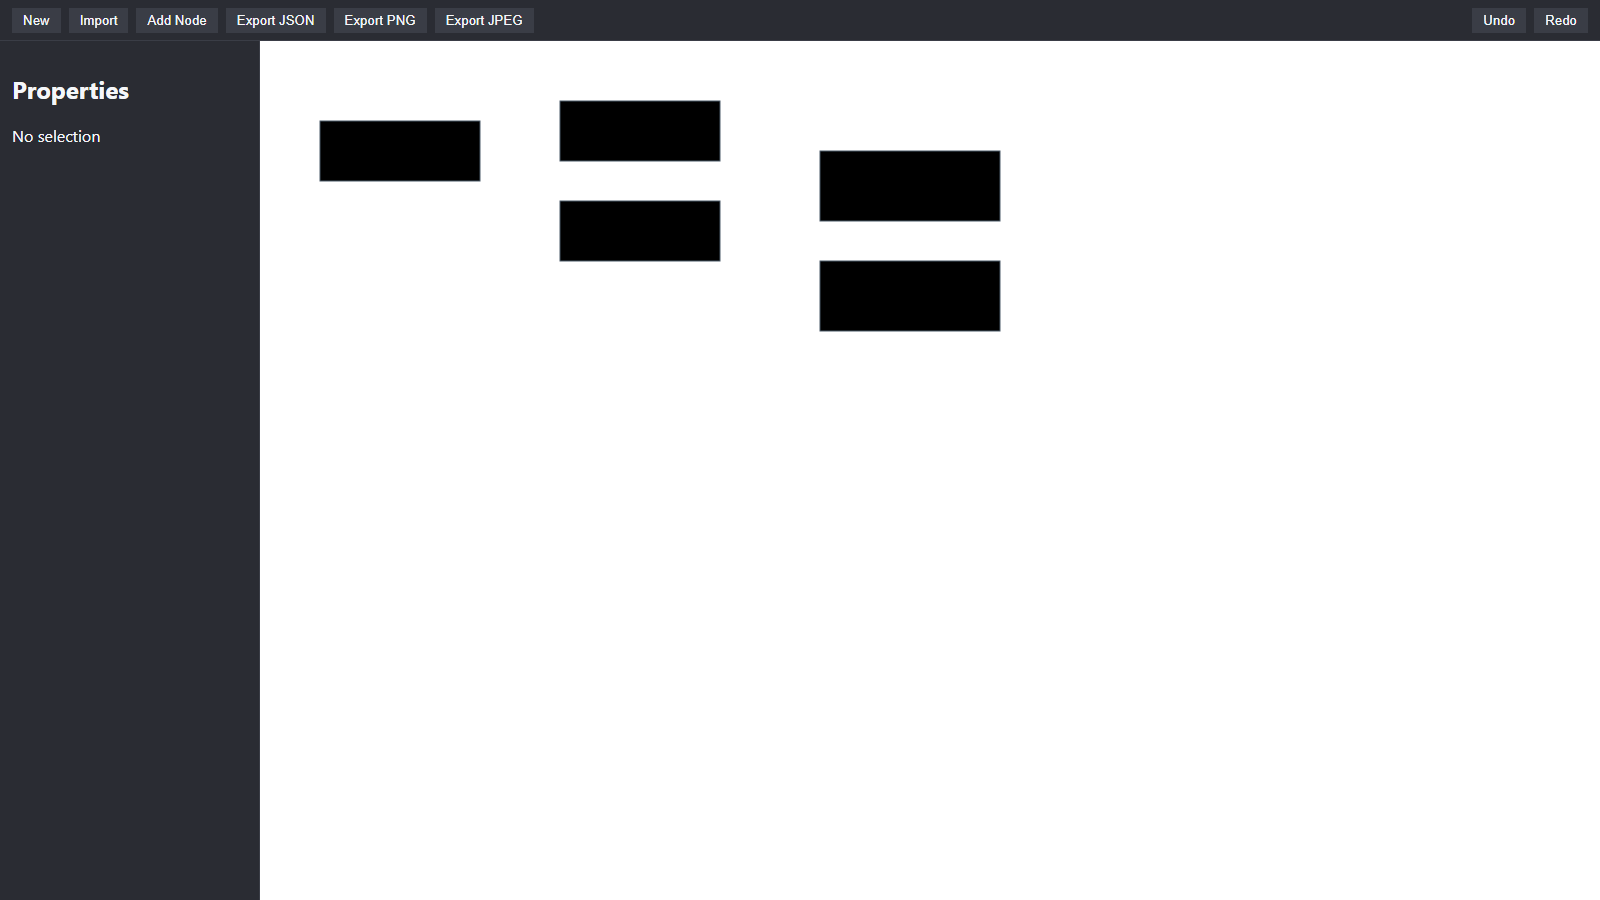
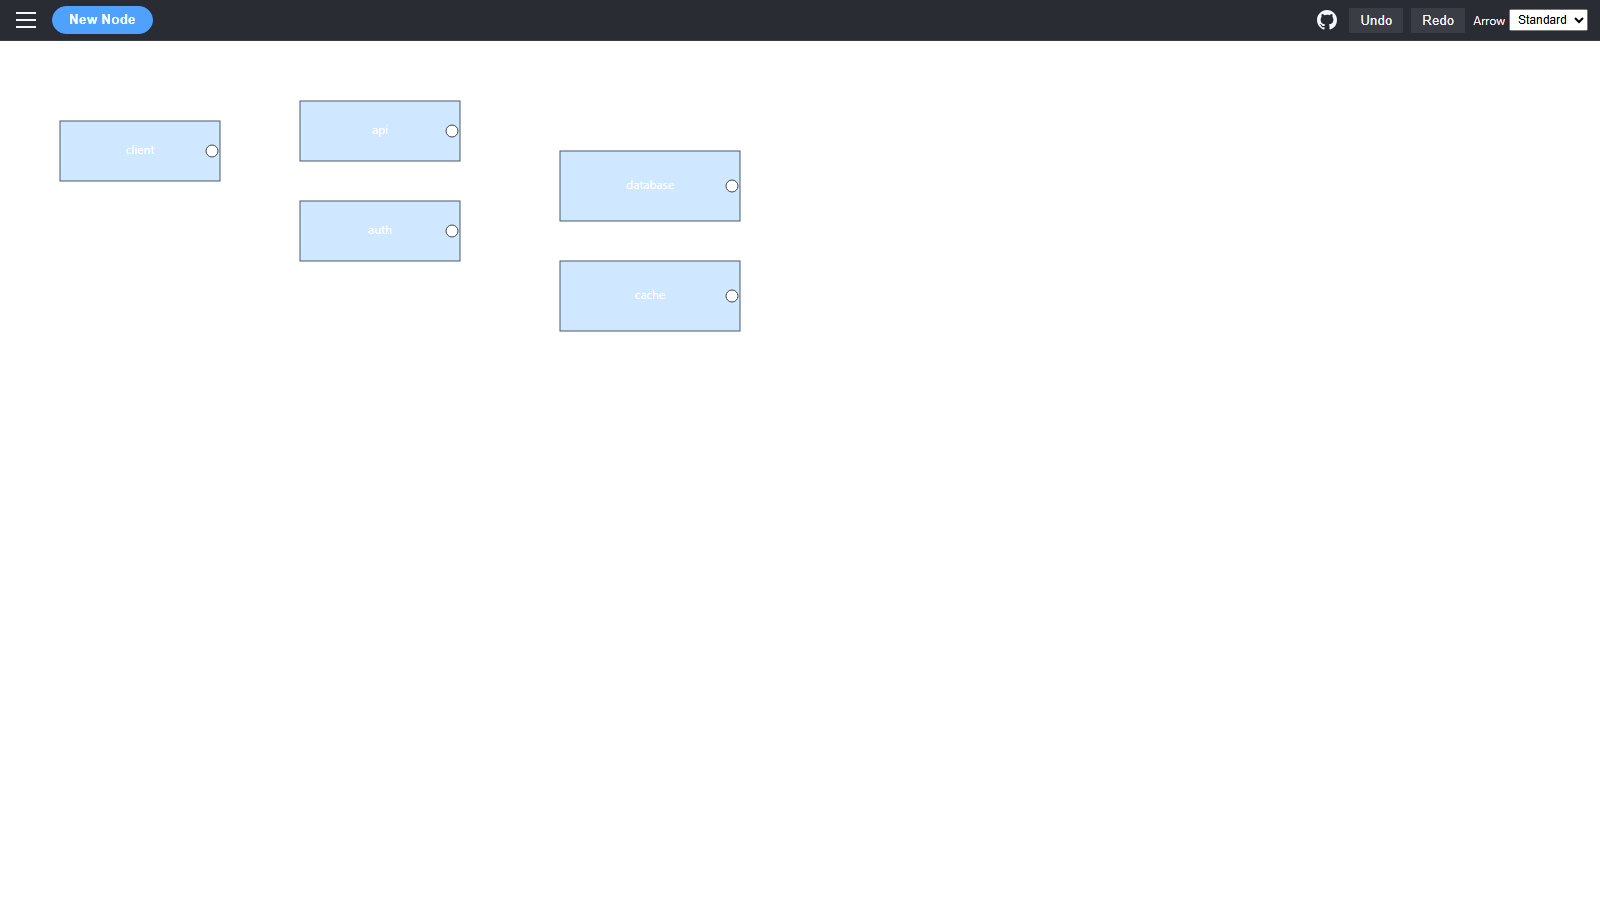
feat(docs): add connected examples, multi-shape + property pane screenshots and update node styling

diff --git a/app/tests/e2e/readme-screenshots.spec.ts b/app/tests/e2e/readme-screenshots.spec.ts
@@ -1,0 +1,90 @@
+import { test, expect, Page } from '@playwright/test';
+
+/**
+ * Generates screenshots for README documentation:
+ * 1. readme-overview.png - variety of node shapes laid out
+ * 2. readme-property-pane.png - node selected with property pane open
+ *
+ * Run via: npx playwright test tests/e2e/readme-screenshots.spec.ts
+ */
+
+async function gotoBase(page: Page, query: string = '') {
+  await page.addInitScript(() => { try { localStorage.setItem('diagramimp.skipSplash','1'); } catch {} });
+  await page.setViewportSize({ width: 1600, height: 900 });
+  // Accept query beginning with '/' or without.
+  const url = query.startsWith('/') ? query : '/' + query;
+  await page.goto(url);
+}
+
+async function selectFirstNode(page: Page) {
+  await page.waitForFunction(() => document.querySelector('[data-layer="nodes"] g[data-node-id]'));
+  const node = page.locator('[data-layer="nodes"] g[data-node-id]').first();
+  // Click the rect (or shape) directly
+  await node.locator(':scope > .node-rect, :scope rect, :scope ellipse, :scope polygon').first().click();
+  await expect(node).toHaveAttribute('data-node-selected', 'true');
+}
+
+// Helper to change shape of currently selected node
+async function setShape(page: Page, shape: string) {
+  const shapeSelect = page.getByTestId('prop-shape');
+  await shapeSelect.selectOption(shape);
+  await page.waitForTimeout(40); // allow DOM update
+}
+
+// Capture screenshot utility with small delay for transitions
+async function capture(page: Page, path: string) {
+  await page.waitForTimeout(120); // settle animations (e.g., property pane slide-in)
+  await page.screenshot({ path: `screenshots/${path}`, fullPage: false });
+  console.log('[screenshot]', path);
+}
+
+// We'll start from an example with at least one node
+const EXAMPLE = '/?example=basic-flow';
+
+// Layout helper: move selected node by applying arrow key moves or drag
+async function nudge(page: Page, dx: number, dy: number) {
+  const steps = Math.max(Math.abs(dx), Math.abs(dy));
+  const xStep = dx === 0 ? 0 : dx / steps;
+  const yStep = dy === 0 ? 0 : dy / steps;
+  for (let i = 0; i < steps; i++) {
+    await page.keyboard.press(xStep > 0 ? 'ArrowRight' : xStep < 0 ? 'ArrowLeft' : '');
+    await page.keyboard.press(yStep > 0 ? 'ArrowDown' : yStep < 0 ? 'ArrowUp' : '');
+  }
+}
+
+// Desired shape assignments for first several nodes present in example
+const SHAPE_SEQUENCE = ['square','triangle','star','ellipse','rect','hexagon','octagon','cylinder'];
+
+async function ensureVariety(page: Page) {
+  const nodeSel = '[data-layer="nodes"] g[data-node-id]';
+  await page.waitForFunction(sel => document.querySelectorAll(sel).length > 0, nodeSel);
+  const count = await page.locator(nodeSel).count();
+  const applyCount = Math.min(count, SHAPE_SEQUENCE.length);
+  for (let i = 0; i < applyCount; i++) {
+    const node = page.locator(nodeSel).nth(i);
+    await node.locator(':scope > .node-rect, :scope rect, :scope ellipse, :scope polygon').first().click();
+    await setShape(page, SHAPE_SEQUENCE[i]);
+    // Slight nudge to avoid total overlap of labels if layout tight
+    await nudge(page, 2 * i, i); // small offset
+  }
+}
+
+test.describe('README screenshots', () => {
+  test('generate overview and property pane screenshots', async ({ page }) => {
+    await gotoBase(page, EXAMPLE);
+
+    // Overview: variety of shapes visible, no property pane (deselect if needed)
+    await ensureVariety(page);
+    // Deselect to hide property pane
+    const svg = page.locator('svg.diagram');
+    await svg.click({ position: { x: 10, y: 10 } });
+    await capture(page, 'readme-overview.png');
+
+    // Property pane: reselect a node and show pane with selection highlight
+    await selectFirstNode(page);
+    // Ensure property pane open by focusing on a known input
+    const textInput = page.getByTestId('property-pane').locator('input[type="text"]').first();
+    await expect(textInput).toBeVisible();
+    await capture(page, 'readme-property-pane.png');
+  });
+});

diff --git a/app/tests/e2e/node-colors.spec.ts b/app/tests/e2e/node-colors.spec.ts
@@ -1,0 +1,39 @@
+import { test, expect } from '@playwright/test';
+
+// Verifies default node background fill and label text color.
+
+const EXPECT_NODE_FILL = 'rgb(207, 232, 255)'; // #cfe8ff
+const EXPECT_LABEL_FILL = 'rgb(255, 255, 255)'; // #ffffff
+
+function toRgb(hex: string) {
+  const m = /^#?([0-9a-f]{6})$/i.exec(hex);
+  if (!m) return hex;
+  const intVal = parseInt(m[1], 16);
+  const r = (intVal >> 16) & 255;
+  const g = (intVal >> 8) & 255;
+  const b = intVal & 255;
+  return `rgb(${r}, ${g}, ${b})`;
+}
+
+test.beforeEach(async ({ page }) => {
+  await page.addInitScript(() => { try { localStorage.setItem('diagramimp.skipSplash','1'); } catch {} });
+  await page.goto('/?example=basic-flow');
+});
+
+test('default node colors are light blue with white text', async ({ page }) => {
+  const firstNode = page.locator('[data-layer="nodes"] g[data-node-id]').first();
+  await expect(firstNode).toBeVisible();
+  const rect = firstNode.locator('.node-rect').first();
+  await expect(rect).toBeVisible();
+  const fill = await rect.getAttribute('fill');
+  // If React sets inline fill via data, fallback to computed style
+  const effectiveFill = fill || await rect.evaluate(el => (window.getComputedStyle(el as SVGElement).fill));
+  // Normalize hex to rgb if needed
+  const normalized = /^#/.test(effectiveFill || '') ? toRgb(effectiveFill!) : effectiveFill;
+  expect(normalized).toBe(EXPECT_NODE_FILL);
+
+  const label = firstNode.locator('text.node-label').first();
+  const labelFill = await label.getAttribute('fill') || await label.evaluate(el => window.getComputedStyle(el as SVGElement).fill);
+  const labelNorm = /^#/.test(labelFill || '') ? toRgb(labelFill!) : labelFill;
+  expect(labelNorm).toBe(EXPECT_LABEL_FILL);
+});

diff --git a/app/src/model/examples.ts b/app/src/model/examples.ts
@@ -46,4 +46,39 @@ export const examples: Record<string, DiagramState> = {
     }),
     edges: []
   }
+  ,
+  'basic-flow-connected': {
+    schemaVersion: '1.1.0',
+    metadata: { title: 'Basic Flow (Connected)' },
+    selection: [],
+    nodes: [
+      { id: 'start', type: 'start', x: 80, y: 120, w: 140, h: 60 },
+      { id: 'process', type: 'process', x: 320, y: 120, w: 160, h: 60 },
+      { id: 'end', type: 'end', x: 600, y: 120, w: 140, h: 60 }
+    ],
+    edges: [
+      { id: 'e1', type: 'edge', source: { nodeId: 'start' }, target: { nodeId: 'process' } },
+      { id: 'e2', type: 'edge', source: { nodeId: 'process' }, target: { nodeId: 'end' } }
+    ]
+  },
+  'architecture-connected': {
+    schemaVersion: '1.1.0',
+    metadata: { title: 'Mini Architecture (Connected)' },
+    selection: [],
+    nodes: [
+      { id: 'client', type: 'client', x: 60, y: 80, w: 160, h: 60 },
+      { id: 'api', type: 'api', x: 300, y: 60, w: 160, h: 60 },
+      { id: 'auth', type: 'auth', x: 300, y: 160, w: 160, h: 60 },
+      { id: 'db', type: 'database', x: 560, y: 110, w: 180, h: 70 },
+      { id: 'cache', type: 'cache', x: 560, y: 220, w: 180, h: 70 }
+    ],
+    edges: [
+      { id: 'c1', type: 'edge', source: { nodeId: 'client' }, target: { nodeId: 'api' } },
+      { id: 'c2', type: 'edge', source: { nodeId: 'client' }, target: { nodeId: 'auth' } },
+      { id: 'c3', type: 'edge', source: { nodeId: 'api' }, target: { nodeId: 'db' } },
+      { id: 'c4', type: 'edge', source: { nodeId: 'auth' }, target: { nodeId: 'db' } },
+      { id: 'c5', type: 'edge', source: { nodeId: 'api' }, target: { nodeId: 'cache' } },
+      { id: 'c6', type: 'edge', source: { nodeId: 'auth' }, target: { nodeId: 'cache' } }
+    ]
+  }
 };

diff --git a/app/tests/e2e/connected-screenshots.spec.ts b/app/tests/e2e/connected-screenshots.spec.ts
@@ -1,0 +1,25 @@
+import { test, expect } from '@playwright/test';
+
+// Generates screenshots for connected examples with edges.
+// Run: npx playwright test tests/e2e/connected-screenshots.spec.ts
+
+const connectedExamples = [
+  'basic-flow-connected',
+  'architecture-connected'
+];
+
+for (const name of connectedExamples) {
+  test(`capture connected screenshot: ${name}`, async ({ page }) => {
+    await page.setViewportSize({ width: 1600, height: 900 });
+    await page.addInitScript(() => { try { localStorage.setItem('diagramimp.skipSplash','1'); } catch {} });
+    await page.goto(`/?example=${name}`);
+    await expect(page.locator('svg.diagram g[data-layer="nodes"] > g').first()).toBeVisible();
+    // Ensure at least one edge path appears if edges defined.
+    if (name.includes('connected')) {
+      const edgeCount = await page.locator('g[data-layer="edges"] path').count();
+      expect(edgeCount).toBeGreaterThan(0);
+    }
+    await page.waitForTimeout(150);
+    await page.screenshot({ path: `screenshots/${name}.png` });
+  });
+}

diff --git a/app/src/styles/theme.css b/app/src/styles/theme.css
@@ -129,8 +129,8 @@ button:hover { background: var(--color-accent); border-color: var(--color-accent
 .toolbar-gh-link:focus-visible { outline: 2px solid var(--color-accent); outline-offset: 2px; }
 
 .diagram { background: #20252b; }
-.node-rect { stroke: #4b5a69; stroke-width: 1; }
-.node-label { font-size: 12px; dominant-baseline: middle; text-anchor: middle; pointer-events: none; }
+.node-rect { stroke: #4b5a69; stroke-width: 1; fill: #cfe8ff; }
+.node-label { font-size: 12px; dominant-baseline: middle; text-anchor: middle; pointer-events: none; fill: #ffffff; }
 .node.selected .node-rect { stroke: var(--color-accent); stroke-width: 2; }
 
 /* Edges */

diff --git a/app/README.md b/app/README.md
@@ -45,3 +45,21 @@ Open <http://localhost:5173> (default Vite port).
 ## License
 
 (Define licensing here if needed.)
+
+## Screenshots (Documentation Assets)
+
+These screenshots are generated automatically via Playwright for inclusion in the root project `README.md`.
+
+| Node Shape Variety | Selected Node with Property Pane |
+|--------------------|----------------------------------|
+| ![Diagram showing multiple nodes with varied shapes (square, triangle, star, ellipse, rectangle) laid out on canvas](./screenshots/readme-overview.png) | ![Selected node with properties panel open displaying editable fields including text input and shape selector](./screenshots/readme-property-pane.png) |
+
+### Regenerating
+
+From `app/` (dev server not required for these since test starts it implicitly if configured to):
+
+```powershell
+npx playwright test tests/e2e/readme-screenshots.spec.ts
+```
+
+The output images are written to `app/screenshots/`.
